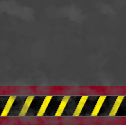
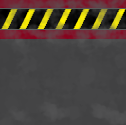
Texture fix

diff --git a/Texture.cpp b/Texture.cpp
@@ -10,7 +10,7 @@ Texture::Texture(const std::string& filename, const int textureWidth, const int 
 	this->textureWidth = textureWidth;
 	this->textureHeight = textureHeight;
 	this->textureSize = textureSize;
-	stbi_set_flip_vertically_on_load(true);
+	
 	data = stbi_load(filename.c_str(), &width, &height, &nrChannels, 4);
 	if (data)
 	{
